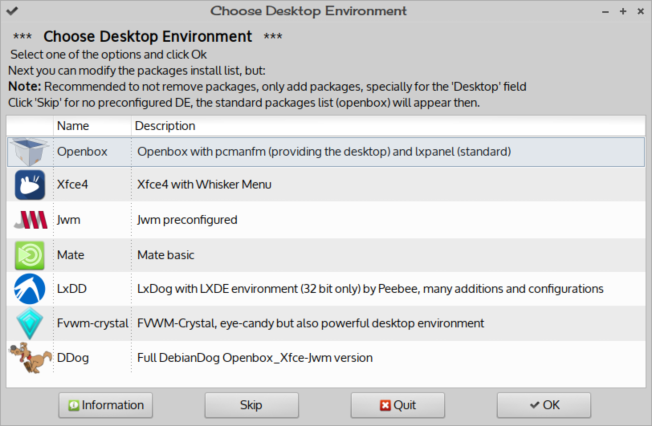
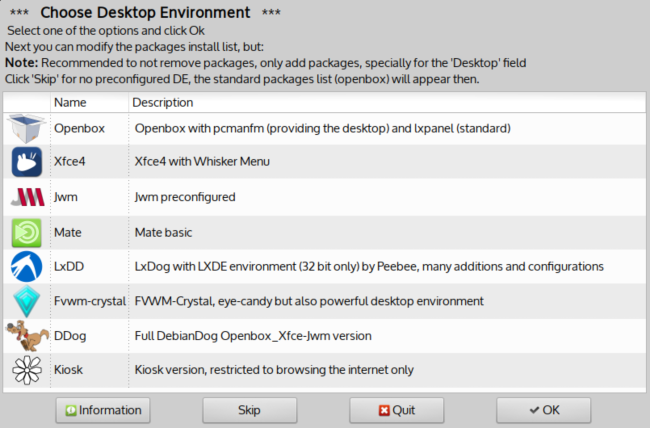
Stretch support, changes

diff --git a/index.html b/index.html
@@ -22,14 +22,14 @@ p.big {
 <a href="mklive-stretch">mklive-stretch</a>                                                            05-Sep-2017 15:23     41K
 <a href="mklive-stretchgui">mklive-stretchgui</a>                                                         15-Aug-2017 20:27     23K
 <a href="mklive-stretchgui-old">mklive-stretchgui-old</a>                                                     08-Aug-2017 19:55     19K
-<a href="configs">configs/</a>                                                                  08-Sep-2017 22:33     -
+<a href="configs">configs/</a>                                                                  08-Sep-2017 23:01     -
 <a href="deb">deb/</a>                                                                      27-Aug-2017 13:05     -
 <a href="dog-boot">dog-boot/</a>                                                                 25-Aug-2017 19:21     -
 <a href="icons">icons/</a>                                                                    08-Sep-2017  9:56     -
 <a href="images">images/</a>                                                                   25-Aug-2017 21:37     -
 <a href="isodata">isodata/</a>                                                                  25-Aug-2017 13:33     -
 <a href="modules">modules/</a>                                                                  08-Sep-2017 22:16     -
-<a href="screenshots">screenshots/</a>                                                              03-Sep-2017 16:12     -
+<a href="screenshots">screenshots/</a>                                                              08-Sep-2017 22:48     -
 <a href="thunar">thunar/</a>                                                                   25-Aug-2017 21:41     -
 </font></p>
 </pre><address>Github Server at https://debiandog.github.io/</address></body></html>

diff --git a/screenshots/index.html b/screenshots/index.html
@@ -7,7 +7,8 @@ p.big {
 <html><head><title>Index of https://debiandog.github.io/MakeLive/screenshots</title></head>
 <body><h2>Index of MakeLive/screenshots</h2><pre><b> Name                                                                                Last modified            Size</b>
 <p STYLE="font-size: 13px;" class="big"><a href=https://debiandog.github.io/MakeLive>Parent Directory/</a>
-<a href="DE_config.png">DE_config.png</a>                                                             03-Sep-2017 16:11     113K
+<a href="DE_config-old.png">DE_config-old.png</a>                                                         03-Sep-2017 16:11     113K
+<a href="DE_config.png">DE_config.png</a>                                                             08-Sep-2017 22:47     119K
 <a href="LxDD.png">LxDD.png</a>                                                                  26-Aug-2017  0:04     168K
 <a href="fvwd-crystal.png">fvwd-crystal.png</a>                                                          27-Aug-2017  0:48     426K
 <a href="mate.png">mate.png</a>                                                                  25-Aug-2017 23:07     25K

diff --git a/configs/index.html b/configs/index.html
@@ -7,7 +7,7 @@ p.big {
 <html><head><title>Index of https://debiandog.github.io/MakeLive/configs</title></head>
 <body><h2>Index of MakeLive/configs</h2><pre><b> Name                                                                                Last modified            Size</b>
 <p STYLE="font-size: 13px;" class="big"><a href=https://debiandog.github.io/MakeLive>Parent Directory/</a>
-<a href="Info-Kiosk">Info-Kiosk</a>                                                                08-Sep-2017 22:08     2.0K
+<a href="Info-Kiosk.txt">Info-Kiosk.txt</a>                                                            08-Sep-2017 22:08     2.0K
 <a href="ddog.conf">ddog.conf</a>                                                                 04-Sep-2017 11:32     5.0K
 <a href="ddog.conf.old">ddog.conf.old</a>                                                             03-Sep-2017 15:49     12K
 <a href="default.conf">default.conf</a>                                                              04-Sep-2017 21:40     2.7K

diff --git a/modules/index.html b/modules/index.html
@@ -10,7 +10,7 @@ p.big {
 <a href="99-firmware-stretch-live.squashfs">99-firmware-stretch-live.squashfs</a>                                         27-Aug-2017 15:56     45M
 <a href="ddog">ddog/</a>                                                                     05-Sep-2017 18:18     -
 <a href="fvwm-crystal">fvwm-crystal/</a>                                                             27-Aug-2017 11:36     -
-<a href="kiosk">kiosk/</a>                                                                    08-Sep-2017 22:16     -
+<a href="kiosk">kiosk/</a>                                                                    08-Sep-2017 22:35     -
 <a href="lxdd">lxdd/</a>                                                                     25-Aug-2017 13:44     -
 <a href="mate">mate/</a>                                                                     28-Aug-2017 13:15     -
 <a href="xfce4">xfce4/</a>                                                                    25-Aug-2017 21:41     -
